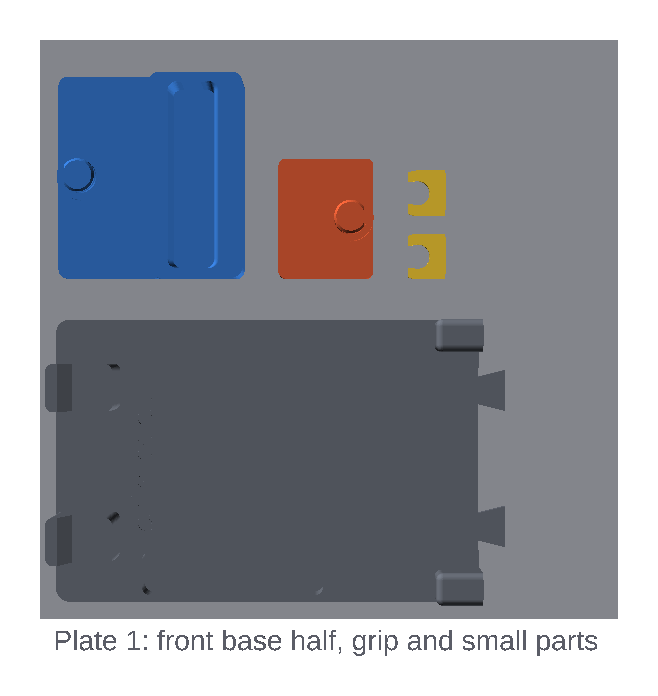
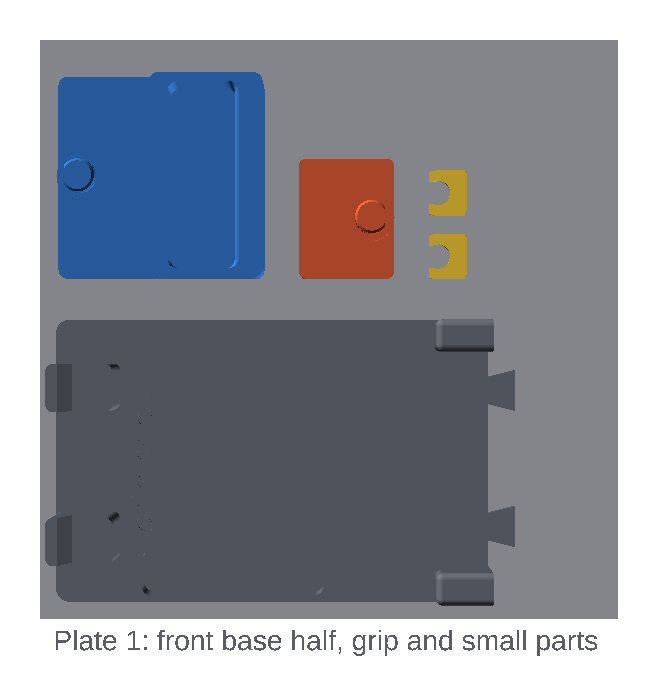
feat: add a reversible liner for an unlevel edge
Widen the finger pocket by a stepped liner that stands on its floor.
Against the lip it steps each finger's edge (index, ring and little
fingers 3, 2 and 7 mm nearer the palm than the middle finger's) for
the right hand; turned end over end, for the left. Against the far
wall it leaves the lip level. The stoppers keep their size and sit
beside it, in tab slots lengthened to fit both places.

The long pocket walls lose their draft so the liner sits flush against
either. The grip grows 8.75 mm, so plate 2 is rearranged and the liner
added to it.

Refs #31

Changed region(s): [[0.304, 0.0905, 0.4559, 0.4224], [0.5167, 0.2112, 0.7295, 0.4224], [0.7295, 0.4526, 0.7903, 0.875]]

diff --git a/scripts/export-bambu-project.py b/scripts/export-bambu-project.py
@@ -72,8 +72,9 @@ PLATES = [
     ("Front base and small parts", [
         ("base_front", BASE), ("grip", SOLID), ("anchor", SOLID), ("clips", SOLID),
     ]),
-    ("Rear base, palm rest, stoppers and key", [
-        ("stoppers", {}), ("base_rear", BASE), ("rest", REST), ("key", SOLID),
+    ("Rear base, liner, palm rest, stoppers and key", [
+        ("base_rear", BASE), ("liner", SOLID), ("rest", REST), ("stoppers", {}),
+        ("key", SOLID),
     ]),
 ]
 ILLEGAL_NAME_CHARS = '<>:/\\|?*"'

diff --git a/docs/src/build/assembly.md b/docs/src/build/assembly.md
@@ -56,12 +56,23 @@ between the finger lip and the palm face: 25 to 85 mm in 10 mm steps. To
 change it, pull the key out by its head, slide the rest until its groove
 lines up with the new hole, and push the key in again.
 
-## 6. Stoppers and phone
+## 6. Liner, stoppers and phone
+
+![Fitting the liner](../images/liner.png)
+
+The liner always stands in the finger pocket, on its floor, against one of
+the pocket's long walls, flat face to the wall:
+
+- **Level edge:** against the wall nearer the case.
+- **Unlevel edge:** against the finger lip, thickest step under your middle
+  finger. Its steps set the index, ring and little fingers' edges 3, 2 and
+  7 mm nearer the palm than the middle finger's, so each finger bends about
+  as much as the others. Turn it end over end to switch hands.
 
 ![Fitting the stoppers](../images/stoppers.png)
 
-The pocket gives a 25 mm edge on its own. Drop a stopper onto its floor, pull
-tab in the end slot, for a shallower edge:
+The pocket gives a 25 mm edge on its own. Drop a stopper onto its floor
+beside the liner, pull tab in the end slot, for a shallower edge:
 
 | Edge | Stoppers |
 |---|---|

diff --git a/README.md b/README.md
@@ -10,15 +10,17 @@ entirely in plastic with no hardware to buy.
 
 - **Edge depths:** 25, 20, 15 and 10 mm, set with two stackable stoppers (5
   and 10 mm).
+- **Edge:** level, or unlevel for either hand with a reversible stepped
+  liner.
 - **Palm rest:** 25–85 mm from the outside of the finger lip to the palm face,
   seven positions in 10 mm steps, with the heel level with the fingertips on
   the 20 and 25 mm edges.
 - **Phone slot:** phones up to about 13 mm thick in their case, portrait or
   landscape, leaned back 15°.
-- **Size:** 349 × 122 mm base (130 mm wide with the key fitted), 60 mm tall
+- **Size:** 357 × 122 mm base (130 mm wide with the key fitted), 60 mm tall
   at the phone stand.
 - **Printing:** no supports and no hardware; the base splits into two halves
-  for a 256 mm bed; about 640 g of PETG.
+  for a 256 mm bed; about 670 g of PETG.
 - **Compatibility:** [crimpdeq-case](https://github.com/crimpdeq/crimpdeq-case)
   v2.0.0 and earlier.
 

diff --git a/docs/src/build/index.md b/docs/src/build/index.md
@@ -3,7 +3,7 @@
 ![Assembled platform](../images/overview.png)
 
 The platform prints on a Bambu Lab A1, or any printer with a 256 mm bed, in
-about 640 g of PETG. There is nothing else to buy. It holds the Crimpdeq case
+about 670 g of PETG. There is nothing else to buy. It holds the Crimpdeq case
 from [crimpdeq-case v2.0.0](https://github.com/crimpdeq/crimpdeq-case/tree/v2.0.0)
 or any earlier release.
 
@@ -21,4 +21,5 @@ The illustrations use the same colours throughout:
   two eyes of the load cell.
 - **Eye clips** (yellow): hold the load cell down on the lugs.
 - **Palm rest** (orange) and **index key** (green): set the hand opening.
+- **Edge liner** (pink): makes the edge level or unlevel.
 - **Pocket stoppers** (teal): make the 25 mm edge shallower.

diff --git a/docs/src/build/printing.md b/docs/src/build/printing.md
@@ -15,7 +15,7 @@ Take all the parts from the same release, or they may not fit together.
 
 ![Plate 1: front base half, grip, anchor block and clips](../images/plate1.png)
 
-![Plate 2: rear base half, palm rest, stoppers and key](../images/plate2.png)
+![Plate 2: rear base half, liner, palm rest, stoppers and key](../images/plate2.png)
 
 The parts are exported already oriented for printing, so don't rotate them.
 If you lay out the plates yourself, keep the parts at least 15 mm apart.
@@ -35,7 +35,7 @@ Per-object overrides:
 
 | Object | Override |
 |---|---|
-| `grip`, `anchor`, `clips`, `key` | 100% infill |
+| `grip`, `anchor`, `clips`, `key`, `liner` | 100% infill |
 | `rest` | 50% infill |
 | `base_front`, `base_rear` | 4 top and 4 bottom layers |
 

diff --git a/AGENTS.md b/AGENTS.md
@@ -23,8 +23,8 @@
 
 - `dimensions.scad`: shared parameters, derived dimensions, and structural
   assertions.
-- `parts.scad`: printable base, anchor, grip, clip, rest, key and stopper
-  modules, and the phone stand, without top-level geometry.
+- `parts.scad`: printable base, anchor, grip, clip, rest, key, liner and
+  stopper modules, and the phone stand, without top-level geometry.
 - `assembly.scad`: preview and STL export entry point.
 - `crimpdeq_reference.scad`: self-contained crimpdeq-case `v2.0.0`
   interface snapshot.
